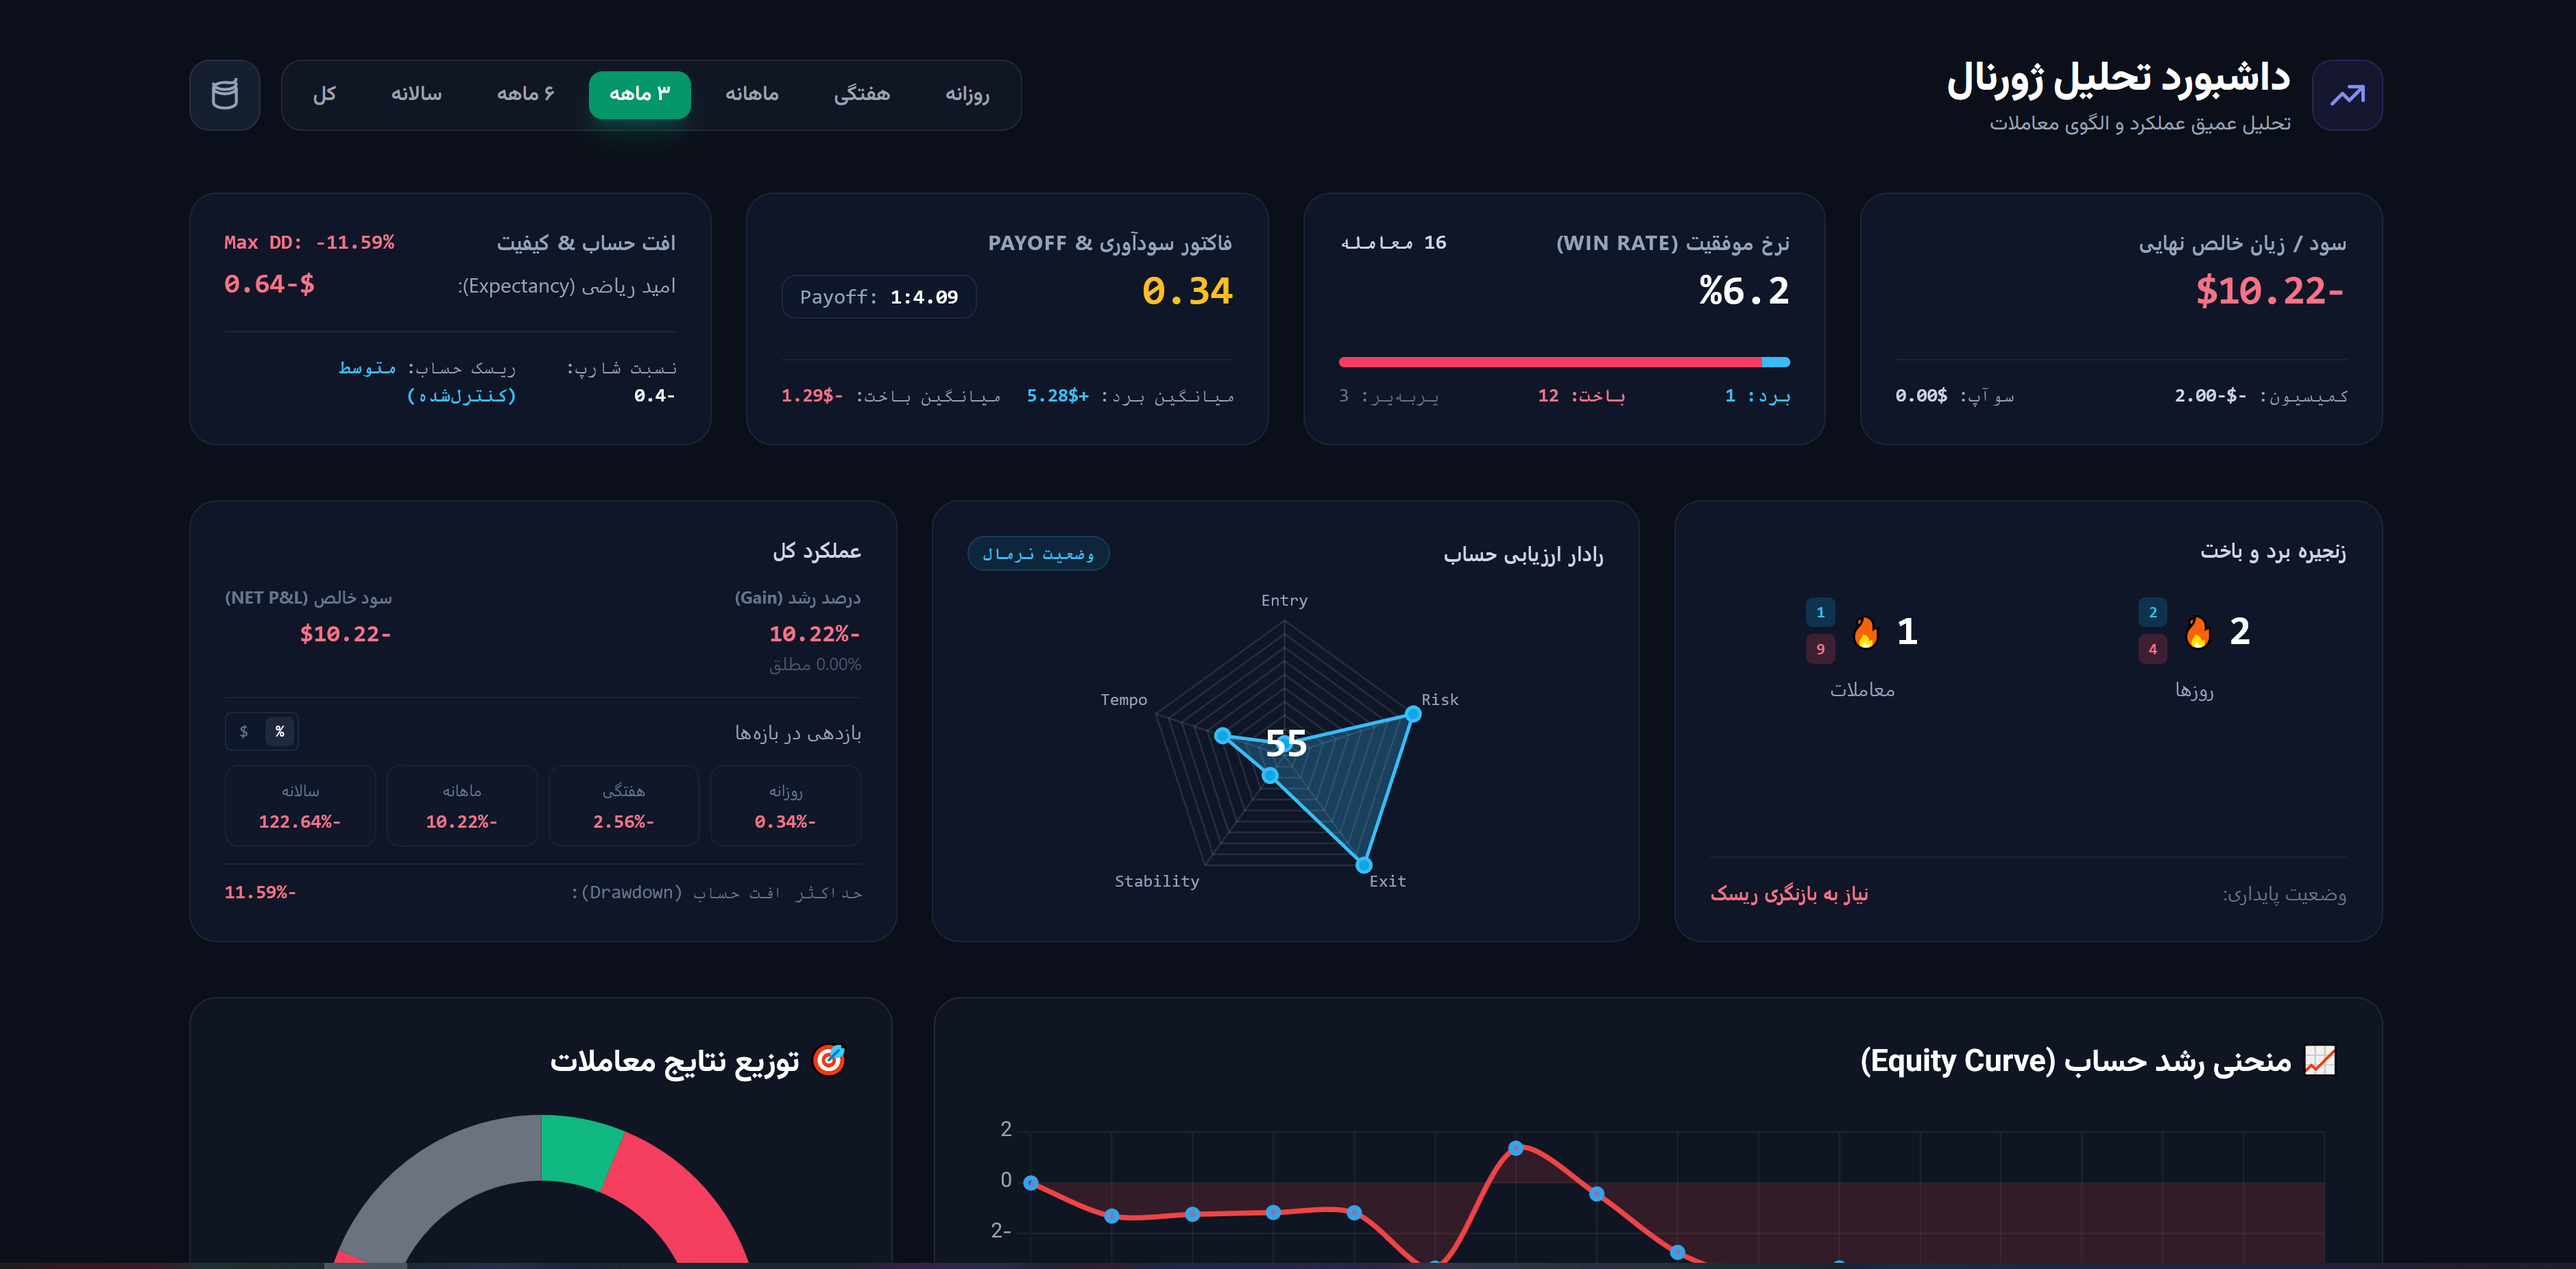
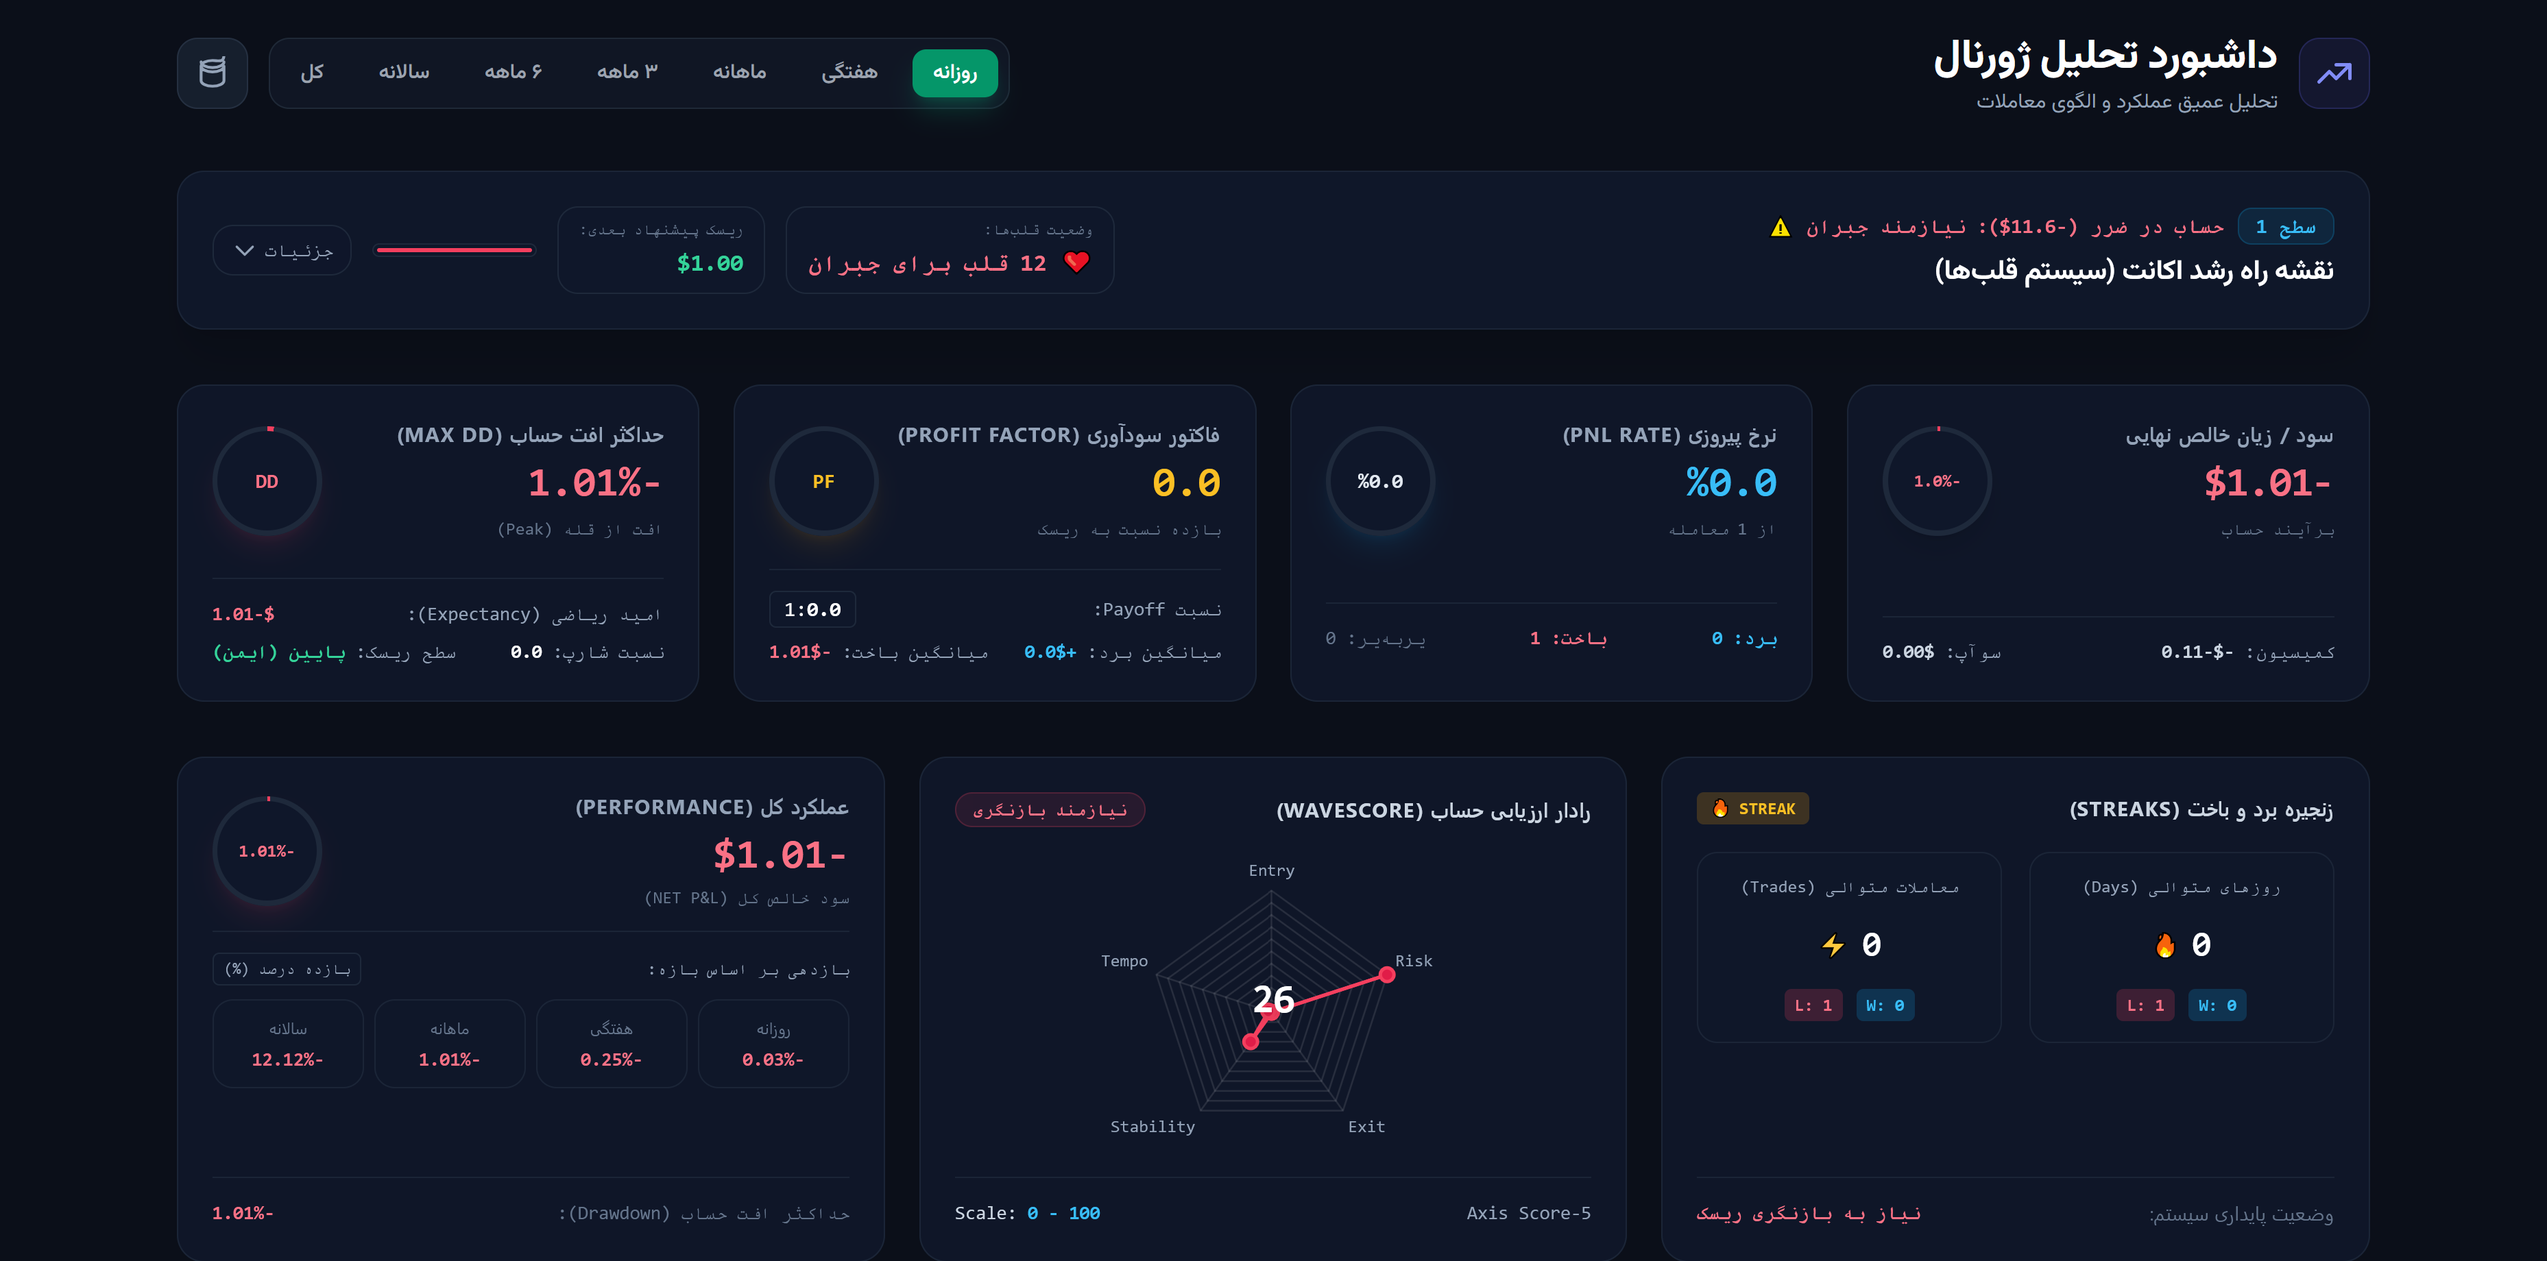
some bugs on heart system

diff --git a/bot_app/views.py b/bot_app/views.py
@@ -5,7 +5,7 @@ import math
 import shutil
 
 from pathlib import Path
-from decimal import Decimal,ROUND_CEILING
+from decimal import Decimal,ROUND_CEILING,ROUND_HALF_UP
 from collections import defaultdict
 from datetime import timedelta,datetime
 from django.utils import timezone
@@ -96,6 +96,8 @@ def get_user_progression_plan(user):
     earned_hearts_in_level = 0
     required_recovery_hearts = 0
     is_in_loss = False
+    trend_status = ""
+    trend_color = "text-slate-400"
 
     # 🛑 سناریوی اول: حساب در مجموع در ضرر است (منفی)
     if total_net_profit < 0:
@@ -121,6 +123,7 @@ def get_user_progression_plan(user):
         
     # 📈 سناریوی دوم: حساب در سود است (پیدا کردن سطح فعال بر اساس سود واقعی)
     else:
+        is_in_loss = False
         active_level_idx = 0
         for i, lvl in enumerate(levels):
             if total_net_profit < lvl['cumulative_profit']:
@@ -139,7 +142,7 @@ def get_user_progression_plan(user):
         
         if level_span > 0:
             pct_calc = (progress_in_level / level_span) * Decimal('100')
-            completion_percentage = min(100, max(0, int(pct_calc)))
+            completion_percentage = min(100, max(0, int(pct_calc.quantize(Decimal('1'), rounding=ROUND_HALF_UP))))
         else:
             completion_percentage = 0
             
